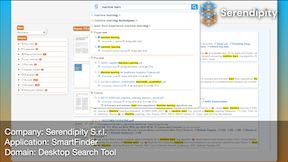
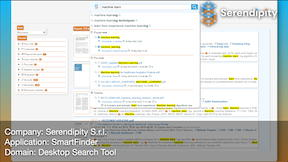
Optimizing image sizes.

diff --git a/realworld/smartfinder/readme.md b/realworld/smartfinder/readme.md
@@ -24,7 +24,7 @@ SmartFinder is available for **Windows** and **Mac** operating systems.
 ## SmartFinder in action
 [SmartFinder Youtube playlist](https://www.youtube.com/playlist?list=PLG6jFnBRDFm8aOs9EZrsJ_490X1nWvsH2)
 
-[![SmartFinder youtube](smartfinder-youtube.png)](https://www.youtube.com/playlist?list=PLG6jFnBRDFm8aOs9EZrsJ_490X1nWvsH2)
+[![SmartFinder youtube](smartfinder-youtube.jpg)](https://www.youtube.com/playlist?list=PLG6jFnBRDFm8aOs9EZrsJ_490X1nWvsH2)
 
 ## Feature
 
@@ -44,16 +44,16 @@ SmartFinder is available for **Windows** and **Mac** operating systems.
 
 ## Some screenshots
 
-![Screen 1](screen-shot-1.png)
-![Screen 2](screen-shot-2.png)
-![Screen 3](screen-shot-3.png)
-![Screen 4](screen-shot-4.png)
-![Screen 5](screen-shot-5.png)
-![Screen 6](screen-shot-6.png)
-![Screen 7](screen-shot-7.png)
-![Screen 8](screen-shot-8.png)
-![Screen 9](screen-shot-9.png)
-![Screen 10](screen-shot-10.png)
+![Screen 1](screen-shot-1.jpg)
+![Screen 2](screen-shot-2.jpg)
+![Screen 3](screen-shot-3.jpg)
+![Screen 4](screen-shot-4.jpg)
+![Screen 5](screen-shot-5.jpg)
+![Screen 6](screen-shot-6.jpg)
+![Screen 7](screen-shot-7.jpg)
+![Screen 8](screen-shot-8.jpg)
+![Screen 9](screen-shot-9.jpg)
+![Screen 10](screen-shot-10.jpg)
 
 
 ## License
